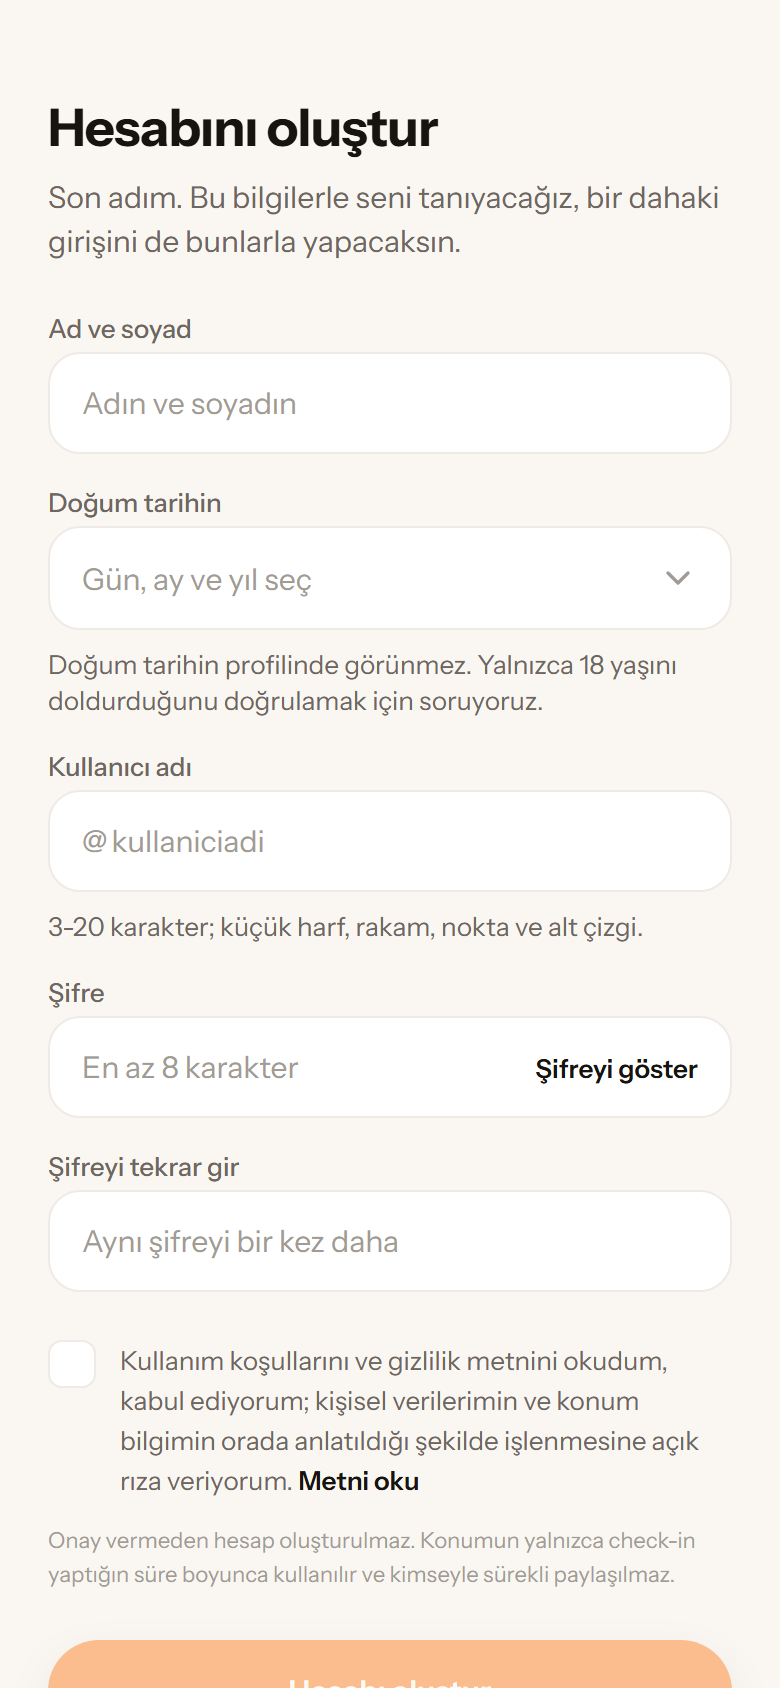
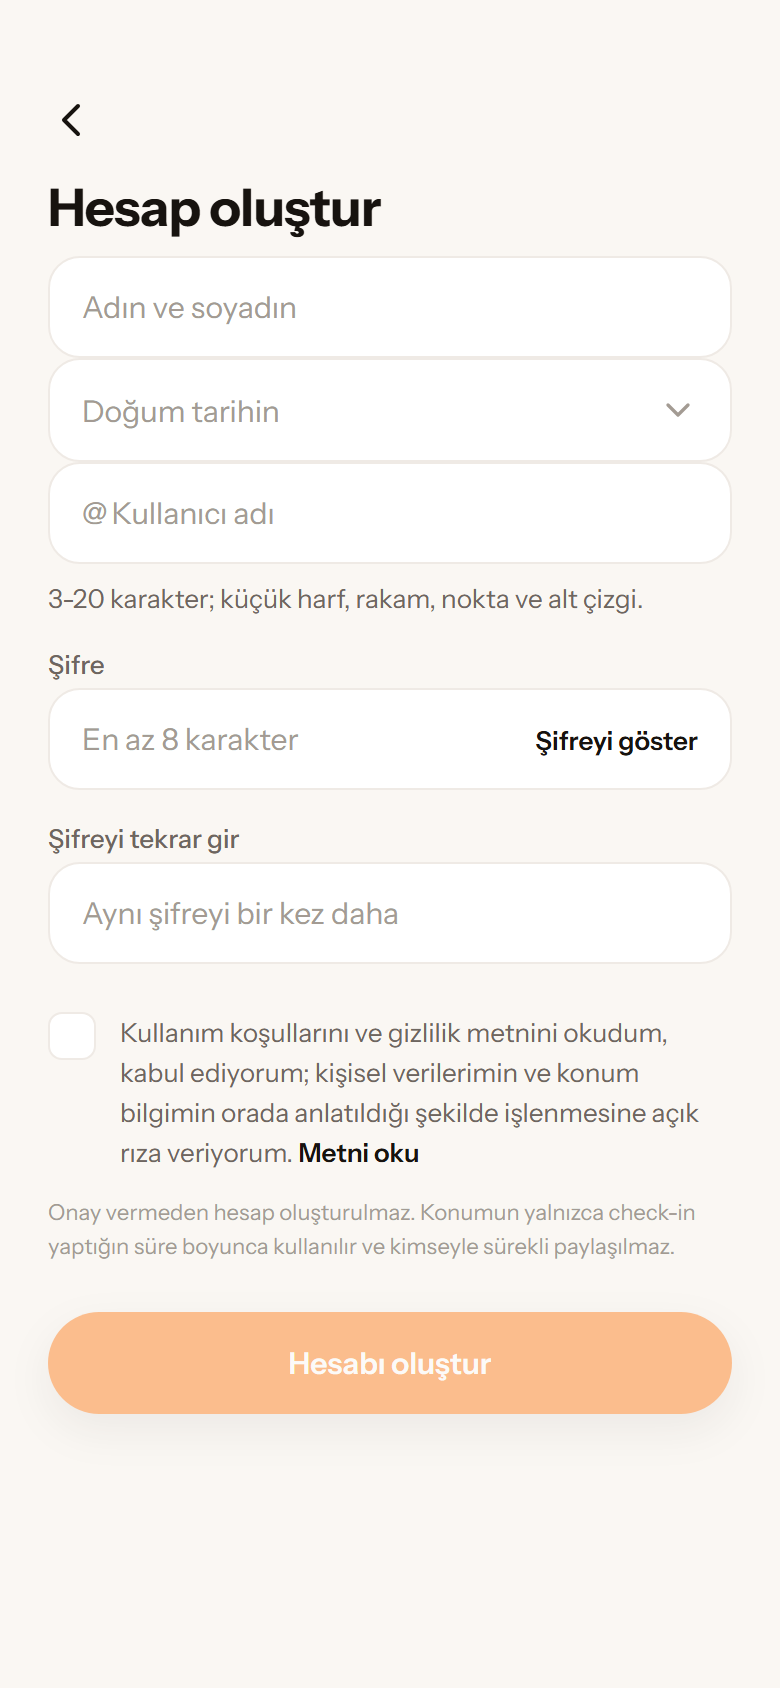
feat(tasarim): hesap olusturma ekrani sadelesti, geri tusu eklendi
Kullanicinin istegi (2026-08-26): ustte "Hesap oluştur", altindaki
tanitim yazisi yok; ad-soyad, dogum tarihi ve kullanici adi
BASLIKLARI yok - etiketi alanin kendi yer tutucusu tasisin; dogum
tarihi alaninda silik "Doğum tarihin" yazsin; altindaki aciklama
kalksin; kullanici adi yer tutucusu duzgun Turkce olsun.

- Baslik "Hesabını oluştur" -> "Hesap oluştur", alt yazi kaldirildi.
- Uc alan basligi kaldirildi; yer tutucular etiket gorevi ustlendi.
- Dogum tarihi yer tutucusu "Gün, ay ve yıl seç" -> "Doğum tarihin".
- Dogum tarihi aciklamasi kaldirildi; o satir artik YALNIZCA hata
  varken aciliyor.
- Kullanici adi yer tutucusu "kullaniciadi" -> "Kullanıcı adı".
  ORNEK KULLANICI ADI YAZILAMAZDI: kullanici adinda Turkce karakter
  gecersiz (^[a-z0-9._]{3,20}$), yani "kullanıcıadı" gecersiz bir
  ornek olurdu. Yer tutucu artik ornek degil etiket.
- GERI TUSU: acilis ekranina doner. OTURUM KAPATILIYOR ve bu sart -
  bu ekrana gelindiginde telefon dogrulanmis, oturum acik; sadece
  /karsilama'ya gitmek iselemezdi, cunku kok yonlendirme kontrolu
  profili olmayan acik bir oturumu aninda buraya geri gonderiyor.
  Yarim kalan hesap kaybolmuyor: ayni numara tekrar girilince yeni kod
  geliyor ve akis yine bu ekranda devam ediyor.

Yeni test: geri tusu signOut cagirip /karsilama'ya donuyor.

BILGI: dogum tarihi aciklamasi bir KVKK aydinlatmasi tasiyordu
("profilinde gorunmez, yalnizca 18 yasini dogrulamak icin"). Kaldirildi;
[…]

diff --git a/mobil/src/app/profil-olustur.tsx b/mobil/src/app/profil-olustur.tsx
@@ -90,6 +90,24 @@ export default function ProfilOlusturEkrani() {
   const enErkenYil = buYil - EN_FAZLA_YAS
   const seciciBaslangici: Tarih = dogum ?? { gun: 1, ay: 1, yil: buYil - 25 }
 
+  /**
+   * Geri: acilis ekranina doner.
+   *
+   * OTURUM KAPATILIYOR ve bu sart. Bu ekrana gelindiginde telefon
+   * dogrulanmis, yani Supabase kullanicisi VAR ve oturum acik. Sadece
+   * `/karsilama`ya gitmek ise yaramazdi: kok yonlendirme kontrolu
+   * profili olmayan acik bir oturumu aninda buraya geri gonderiyor
+   * (`oturum && profilVarMi === false`). Cikis yapmak, kullaniciyi
+   * gercekten disari birakmanin tek yolu.
+   *
+   * Yarim kalan hesap kayboluyor degil: ayni numara tekrar girildiginde
+   * yeni bir kod geliyor ve akis yine bu ekranda devam ediyor.
+   */
+  async function geriDon() {
+    await supabase.auth.signOut()
+    router.replace('/karsilama')
+  }
+
   function alanHatasiniTemizle(alan: string) {
     setAlanHatalari((mevcut) => (mevcut[alan] ? { ...mevcut, [alan]: null } : mevcut))
     setHata(null)
@@ -234,11 +252,29 @@ export default function ProfilOlusturEkrani() {
         contentContainerStyle={stiller.icerik}
         keyboardShouldPersistTaps="handled"
       >
-        <Text style={stiller.baslik}>{t('profilOlustur.baslik')}</Text>
-        <Text style={stiller.altYazi}>{t('profilOlustur.altYazi')}</Text>
+        <Pressable
+          style={stiller.geri}
+          onPress={geriDon}
+          accessibilityRole="button"
+          accessibilityLabel={t('ortak.geri')}
+          hitSlop={12}
+        >
+          <Svg width={24} height={24} viewBox="0 0 24 24">
+            <Path
+              d="M15 5l-7 7 7 7"
+              stroke={renk.metin}
+              strokeWidth={2}
+              strokeLinecap="round"
+              strokeLinejoin="round"
+              fill="none"
+            />
+          </Svg>
+        </Pressable>
 
-        {/* Ad ve soyad TEK kutuda - kullanicinin karari. */}
-        <Text style={stiller.etiket}>{t('profilOlustur.adEtiket')}</Text>
+        <Text style={stiller.baslik}>{t('profilOlustur.baslik')}</Text>
+        {/* Ad ve soyad TEK kutuda. Basliklar KALDIRILDI (kullanicinin
+            karari 2026-08-26): etiketi alanin kendi yer tutucusu
+            tasiyor, ayrica baslik yazmak ayni seyi iki kez soyluyordu. */}
         <TextInput
           style={[
             stiller.girdi,
@@ -259,7 +295,6 @@ export default function ProfilOlusturEkrani() {
         {alanHatalari.ad ? <Text style={stiller.alanHatasi}>{alanHatalari.ad}</Text> : null}
 
         {/* Dogum tarihi: yazilmiyor, tekerlekten seciliyor. */}
-        <Text style={stiller.etiket}>{t('profilOlustur.dogumEtiket')}</Text>
         <Pressable
           style={[stiller.girdi, stiller.secimSatiri, Boolean(alanHatalari.dogum) && stiller.girdiHatali]}
           onPress={() => {
@@ -285,12 +320,13 @@ export default function ProfilOlusturEkrani() {
             />
           </Svg>
         </Pressable>
-        <Text style={[stiller.ipucu, Boolean(alanHatalari.dogum) && stiller.ipucuHatali]}>
-          {alanHatalari.dogum ?? t('profilOlustur.dogumIpucu')}
-        </Text>
+        {/* Ipucu metni KALDIRILDI; yalnizca hata durumunda satir
+            aciliyor. */}
+        {alanHatalari.dogum ? (
+          <Text style={[stiller.ipucu, stiller.ipucuHatali]}>{alanHatalari.dogum}</Text>
+        ) : null}
 
         {/* Kullanici adi */}
-        <Text style={stiller.etiket}>{t('profilOlustur.kullaniciAdiEtiket')}</Text>
         <View
           style={[
             stiller.girdi,
@@ -489,6 +525,7 @@ const stiller = StyleSheet.create({
     paddingBottom: bosluk.xxl + bosluk.xl,
   },
 
+  geri: { alignSelf: 'flex-start', marginBottom: bosluk.l },
   baslik: {
     fontFamily: yazi.ekranBasligi,
     fontSize: olcek.baslik,
@@ -501,7 +538,7 @@ const stiller = StyleSheet.create({
     fontSize: olcek.govde,
     lineHeight: 22,
     color: renk.metinIkincil,
-    marginBottom: bosluk.s,
+    marginBottom: bosluk.xl,
   },
 
   etiket: {

diff --git a/mobil/__tests__/ekranlar/profil-olustur.test.tsx b/mobil/__tests__/ekranlar/profil-olustur.test.tsx
@@ -10,6 +10,7 @@ jest.mock('../../lib/supabase', () => ({
     auth: {
       getUser: jest.fn(),
       updateUser: jest.fn(),
+      signOut: jest.fn(),
     },
     from: jest.fn(),
   },
@@ -36,7 +37,7 @@ async function dogumTarihiniSec() {
 async function formuDoldur() {
   await fireEvent.changeText(screen.getByPlaceholderText('Adın ve soyadın'), 'Orçun Özdemir')
   await dogumTarihiniSec()
-  await fireEvent.changeText(screen.getByPlaceholderText('kullaniciadi'), 'Orcun')
+  await fireEvent.changeText(screen.getByPlaceholderText('Kullanıcı adı'), 'Orcun')
   await fireEvent.changeText(screen.getByPlaceholderText('En az 8 karakter'), 'sifre1234')
   await fireEvent.changeText(
     screen.getByPlaceholderText('Aynı şifreyi bir kez daha'),
@@ -53,6 +54,7 @@ describe('ProfilOlusturEkrani', () => {
       data: { user: { id: 'kullanici-1' } },
     })
     ;(supabase.auth.updateUser as jest.Mock).mockResolvedValue({ error: null })
+    ;(supabase.auth.signOut as jest.Mock).mockResolvedValue({ error: null })
     ;(kullaniciAdiMusaitMi as jest.Mock).mockResolvedValue(true)
   })
 
@@ -104,7 +106,7 @@ describe('ProfilOlusturEkrani', () => {
   it('dogum tarihi secilmeden hesap olusturmaz', async () => {
     await render(<ProfilOlusturEkrani />)
     await fireEvent.changeText(screen.getByPlaceholderText('Adın ve soyadın'), 'Orçun Özdemir')
-    await fireEvent.changeText(screen.getByPlaceholderText('kullaniciadi'), 'orcun')
+    await fireEvent.changeText(screen.getByPlaceholderText('Kullanıcı adı'), 'orcun')
     await fireEvent.changeText(screen.getByPlaceholderText('En az 8 karakter'), 'sifre1234')
     await fireEvent.changeText(
       screen.getByPlaceholderText('Aynı şifreyi bir kez daha'),
@@ -148,7 +150,7 @@ describe('ProfilOlusturEkrani', () => {
   it('bicime uymayan kullanici adinda kurali gosterir ve kaydetmez', async () => {
     await render(<ProfilOlusturEkrani />)
     await formuDoldur()
-    await fireEvent.changeText(screen.getByPlaceholderText('kullaniciadi'), 'or')
+    await fireEvent.changeText(screen.getByPlaceholderText('Kullanıcı adı'), 'or')
     await fireEvent.press(screen.getByLabelText('Sözleşmeleri kabul ediyorum'))
     await fireEvent.press(screen.getByText('Hesabı oluştur'))
 
@@ -160,7 +162,7 @@ describe('ProfilOlusturEkrani', () => {
     ;(kullaniciAdiMusaitMi as jest.Mock).mockResolvedValue(false)
 
     await render(<ProfilOlusturEkrani />)
-    await fireEvent.changeText(screen.getByPlaceholderText('kullaniciadi'), 'orcun')
+    await fireEvent.changeText(screen.getByPlaceholderText('Kullanıcı adı'), 'orcun')
 
     expect(
       await screen.findByText('Bu kullanıcı adı alınmış, başka bir tane dene.')
@@ -169,8 +171,21 @@ describe('ProfilOlusturEkrani', () => {
 
   it('musait kullanici adinda musait yazisini gosterir', async () => {
     await render(<ProfilOlusturEkrani />)
-    await fireEvent.changeText(screen.getByPlaceholderText('kullaniciadi'), 'orcun')
+    await fireEvent.changeText(screen.getByPlaceholderText('Kullanıcı adı'), 'orcun')
 
     expect(await screen.findByText('Bu kullanıcı adı müsait.')).toBeTruthy()
+  })
+
+  it('geri tusu OTURUMU KAPATIP acilis ekranina doner', async () => {
+    await render(<ProfilOlusturEkrani />)
+
+    await fireEvent.press(screen.getByLabelText('Geri'))
+
+    // Cikis sart: profili olmayan acik bir oturum, kok yonlendirme
+    // kontrolu tarafindan aninda bu ekrana geri gonderilir.
+    await waitFor(() => {
+      expect(supabase.auth.signOut).toHaveBeenCalled()
+    })
+    expect(mockRouterReplace).toHaveBeenCalledWith('/karsilama')
   })
 })

diff --git a/mobil/lib/ceviriler/tr.ts b/mobil/lib/ceviriler/tr.ts
@@ -19,6 +19,7 @@ export default {
     birSorunOldu: 'Bir sorun oluştu.',
     sil: 'Sil',
     vazgec: 'Vazgeç',
+    geri: 'Geri',
   },
 
   karsilama: {
@@ -61,17 +62,13 @@ export default {
   },
 
   profilOlustur: {
-    baslik: 'Hesabını oluştur',
-    altYazi: 'Son adım. Bu bilgilerle seni tanıyacağız, bir dahaki girişini de bunlarla yapacaksın.',
+    baslik: 'Hesap oluştur',
 
-    adEtiket: 'Ad ve soyad',
     adYerTutucu: 'Adın ve soyadın',
     adHata: 'Adını ve soyadını yaz.',
 
     dogumEtiket: 'Doğum tarihin',
-    dogumSec: 'Gün, ay ve yıl seç',
-    dogumIpucu:
-      'Doğum tarihin profilinde görünmez. Yalnızca 18 yaşını doldurduğunu doğrulamak için soruyoruz.',
+    dogumSec: 'Doğum tarihin',
     dogumHataGecersiz: 'Doğum tarihini seç.',
     dogumHataYas: 'Slooin’i kullanmak için 18 yaşını doldurmuş olman gerekiyor.',
     tarihGun: 'Gün',
@@ -93,8 +90,7 @@ export default {
       12: 'Aralık',
     },
 
-    kullaniciAdiEtiket: 'Kullanıcı adı',
-    kullaniciAdiYerTutucu: 'kullaniciadi',
+    kullaniciAdiYerTutucu: 'Kullanıcı adı',
     kullaniciAdiIpucu: '3-20 karakter; küçük harf, rakam, nokta ve alt çizgi.',
     kullaniciAdiKontrol: 'Kontrol ediliyor…',
     kullaniciAdiMusait: 'Bu kullanıcı adı müsait.',
